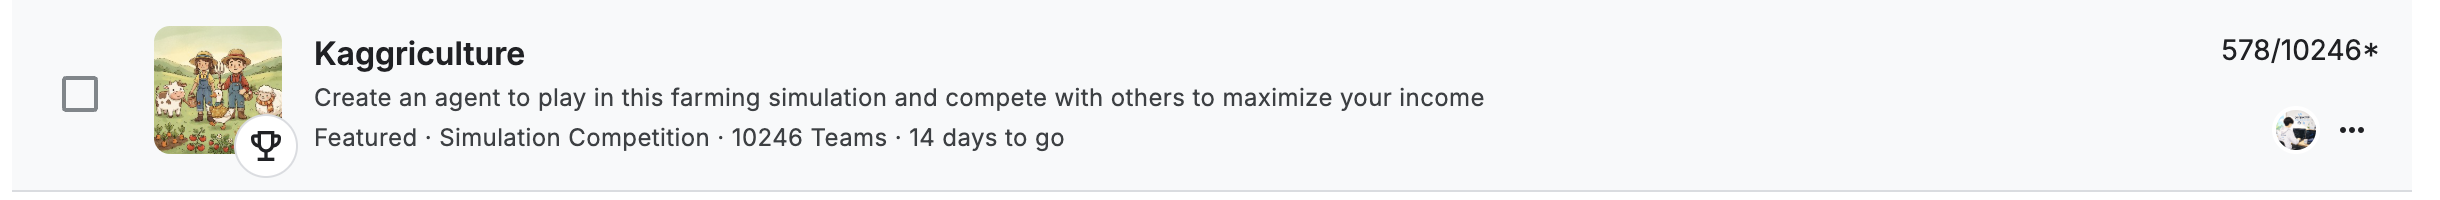
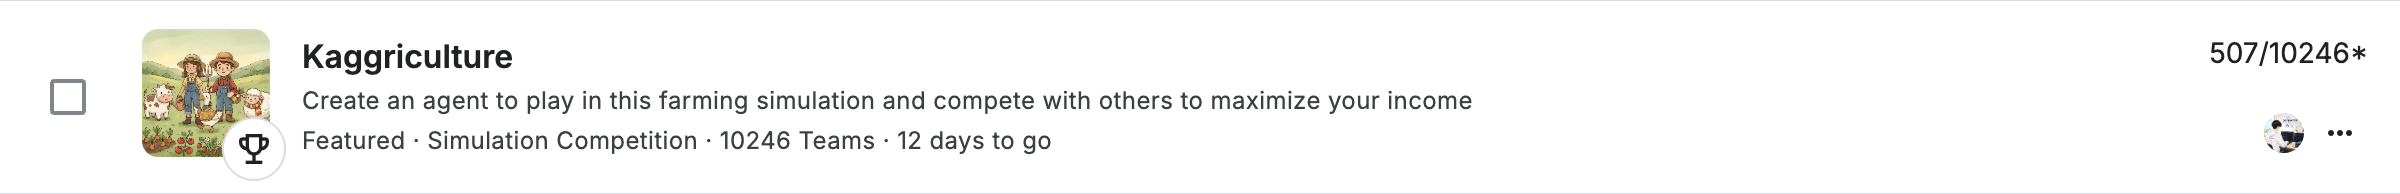
Kaggriculture 성적을 507/10246(상위 4.9%, 은메달)로 갱신

diff --git a/README.md b/README.md
@@ -62,7 +62,7 @@
 
   </details>
 
-- [Kaggriculture](https://www.kaggle.com/competitions/kaggriculture) 578/10246 (상위 5.6%, 동메달, 진행 중)
+- [Kaggriculture](https://www.kaggle.com/competitions/kaggriculture) 507/10246 (상위 4.9%, 은메달, 진행 중)
   - 대회개요 : Featured Simulation Competition, 농장 시뮬레이션에서 수입을 극대화하는 AI 에이전트 대결
 
   <details><summary>$\color{#0969da}{\textsf{증빙보기}}$</summary>
